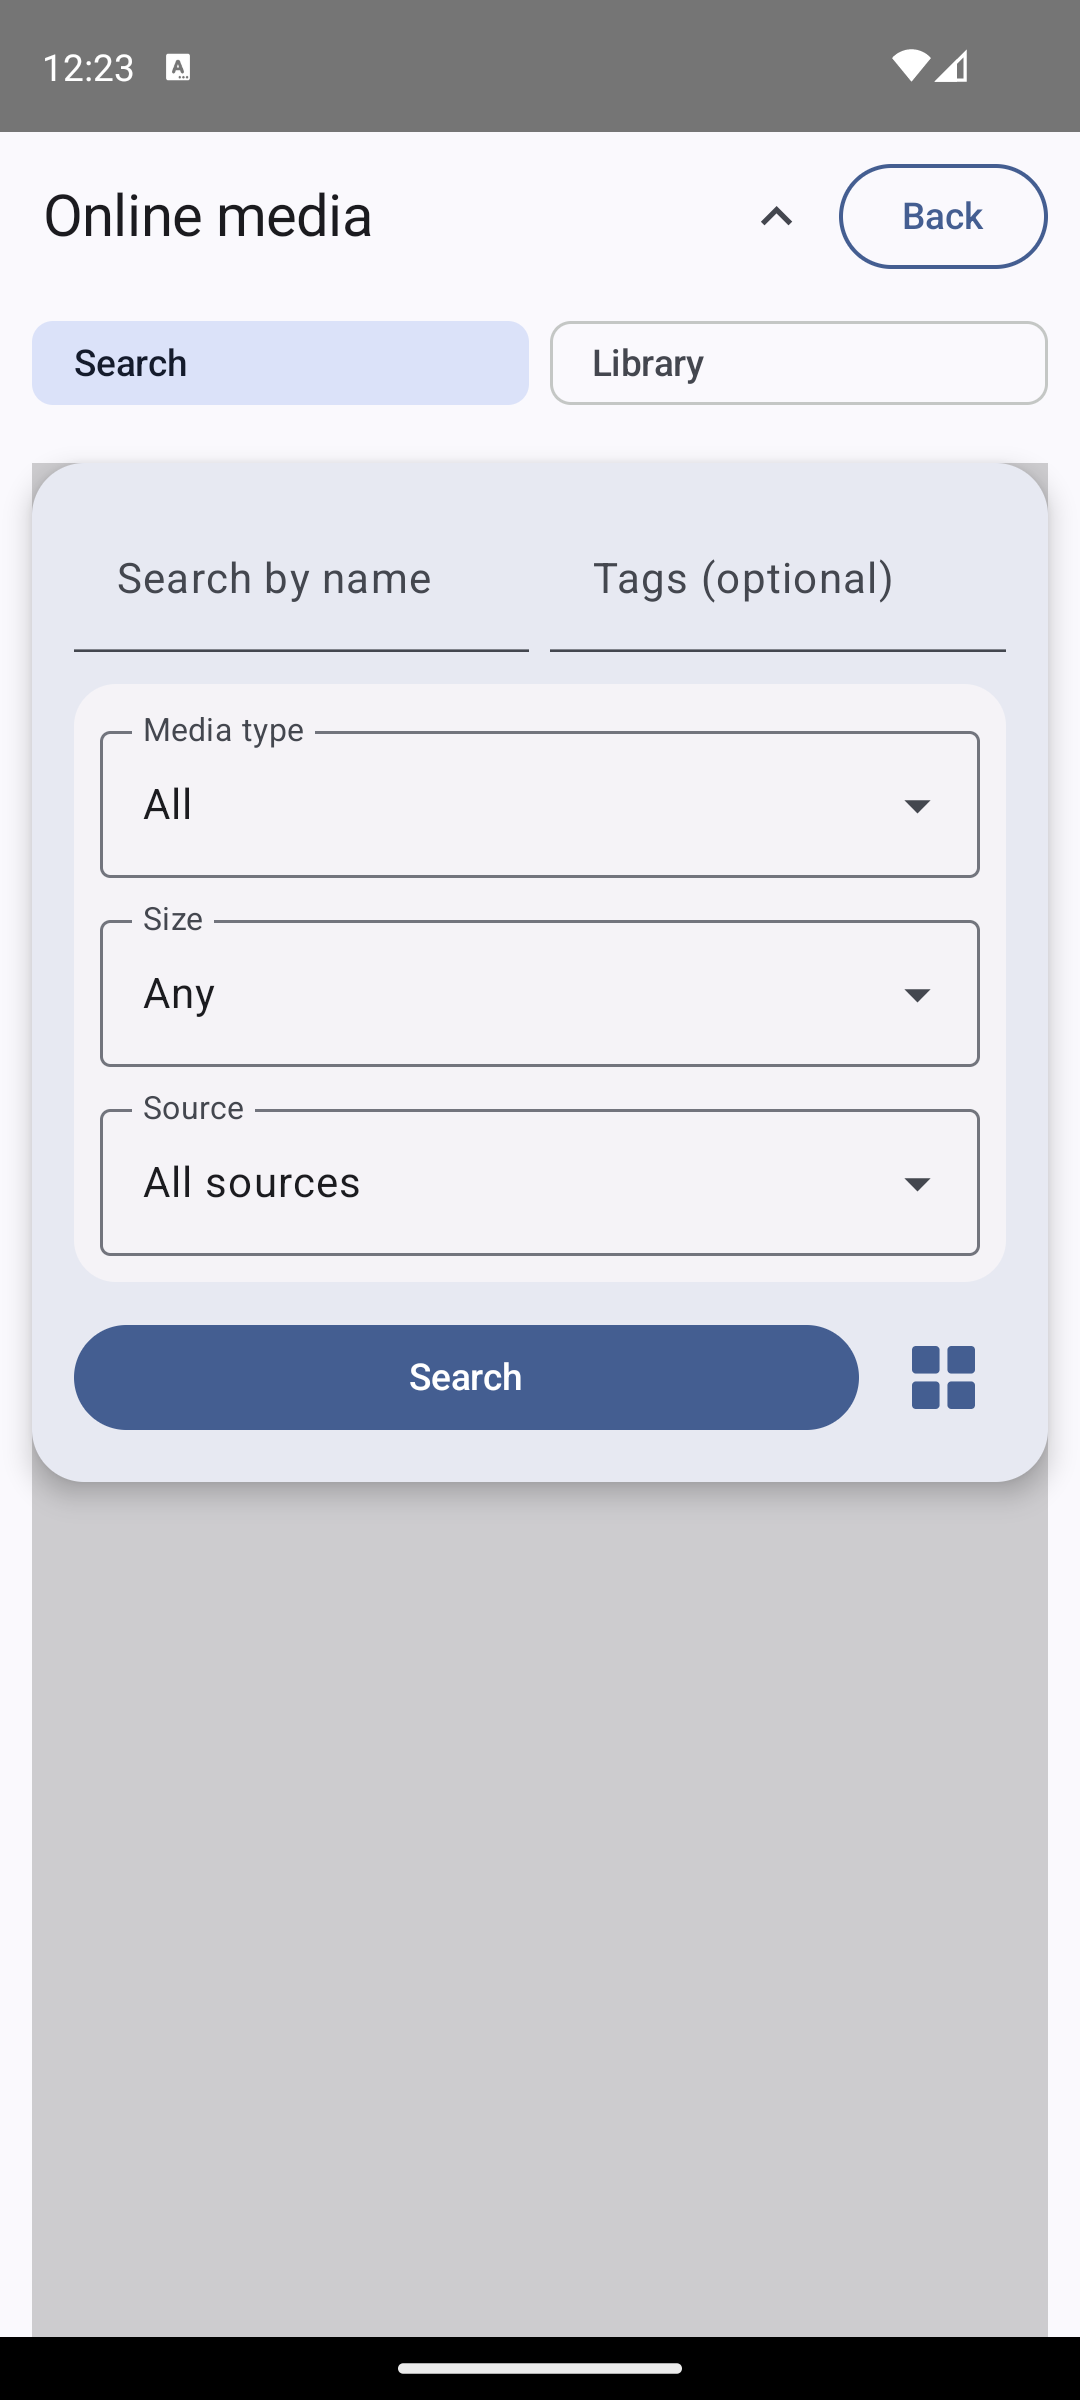
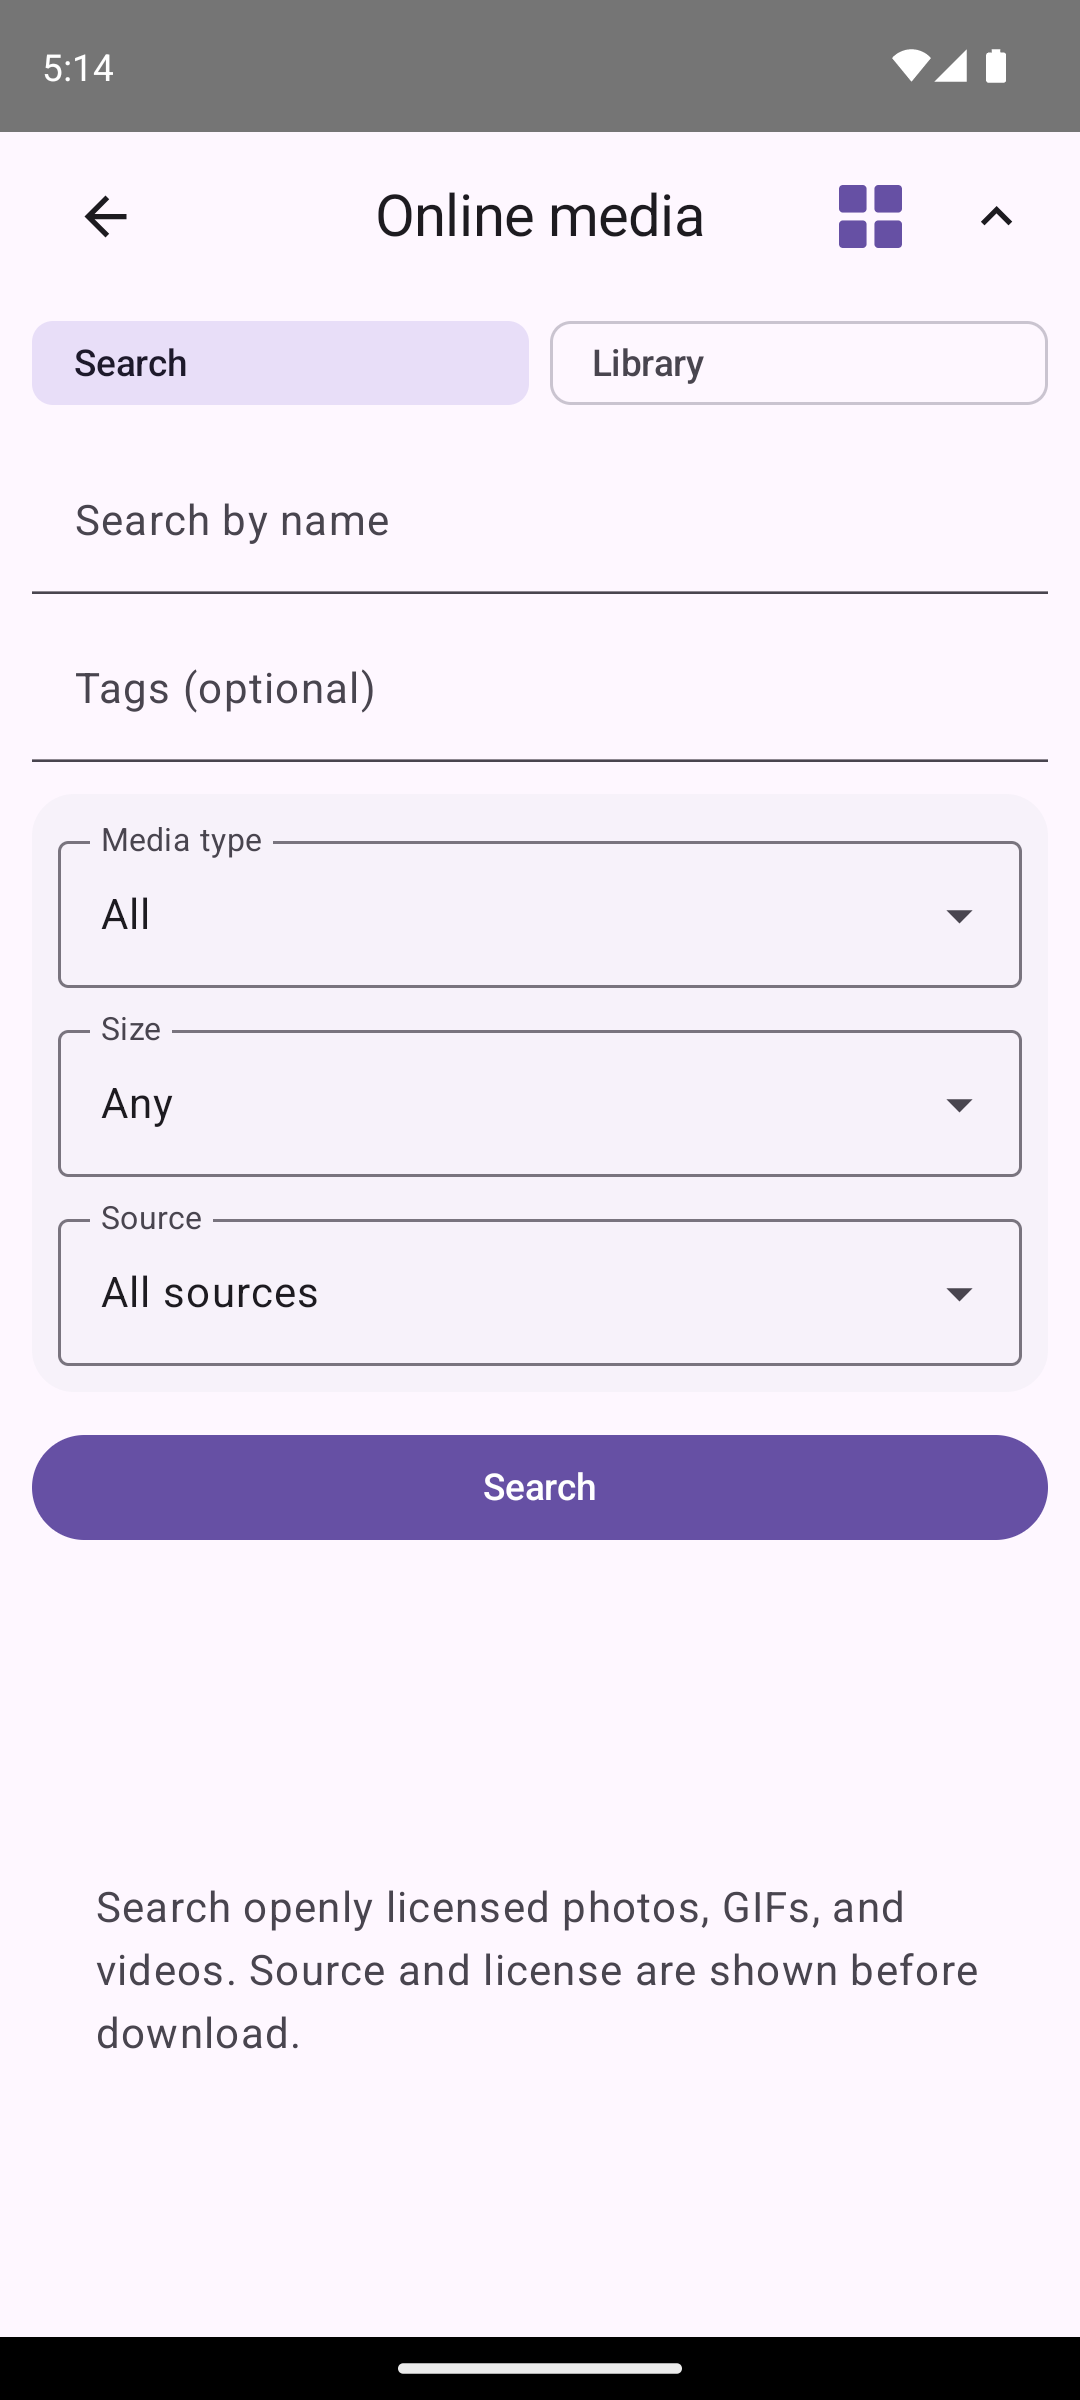
Update website for 0.6.1

diff --git a/app/page.tsx b/app/page.tsx
@@ -25,7 +25,7 @@ const copy = {
       titleA: "Обрежь лишнее.",
       titleB: "Оставь момент.",
       text: "Открой видео, фото или GIF, внеси нужные правки и сохрани результат. Всё происходит прямо на телефоне — понятно и без лишних шагов.",
-      download: "Скачать v0.6.0",
+      download: "Скачать v0.6.1",
       source: "Открыть код",
       note: "Бесплатно · Open source · без подписки",
       local: "Обработка на устройстве",
@@ -35,7 +35,7 @@ const copy = {
     intro: {
       kicker: "Всё в одном месте",
       title: "Один редактор для видео, фото и GIF.",
-      text: "Выбери файл на устройстве или найди медиа с открытой лицензией в онлайн-каталоге. Локальная медиатека показывает фактические размеры, а новый режим Telegram создаёт компактные беззвучные MP4-анимации.",
+      text: "Выбери файл на устройстве или найди медиа с открытой лицензией в онлайн-каталоге. Локальная медиатека показывает фактические размеры, а поиск и избранное теперь используют единую раскрываемую шапку.",
     },
     media: {
       video: {
@@ -64,7 +64,7 @@ const copy = {
       names: ["Главная", "Медиатека", "Онлайн-медиа", "Редактор", "Эффекты", "Экспорт", "Настройки"],
     },
     final: {
-      eyebrow: "Версия 0.6.0 · Android 10+",
+      eyebrow: "Версия 0.6.1 · Android 10+",
       title: "Медиа уже на телефоне. Редактор тоже может быть там.",
       download: "Скачать APK",
       changelog: "Что нового",
@@ -91,7 +91,7 @@ const copy = {
       titleA: "Cut the noise.",
       titleB: "Keep the moment.",
       text: "Open a video, photo, or GIF, make the changes you need, and save the result. Everything happens right on your phone, without unnecessary steps.",
-      download: "Download v0.6.0",
+      download: "Download v0.6.1",
       source: "View source",
       note: "Free · Open source · no subscription",
       local: "On-device processing",
@@ -101,7 +101,7 @@ const copy = {
     intro: {
       kicker: "Everything in one place",
       title: "One editor for video, photos, and GIFs.",
-      text: "Choose a file on your device or find openly licensed media in the online catalog. The local library shows actual dimensions, while the new Telegram target creates compact silent MP4 animations.",
+      text: "Choose a file on your device or find openly licensed media in the online catalog. The local library shows actual dimensions, while search and favorites now share one expandable header.",
     },
     media: {
       video: {
@@ -130,7 +130,7 @@ const copy = {
       names: ["Home", "Library", "Online media", "Editor", "Effects", "Export", "Settings"],
     },
     final: {
-      eyebrow: "Version 0.6.0 · Android 10+",
+      eyebrow: "Version 0.6.1 · Android 10+",
       title: "Your media lives on your phone. Your editor can too.",
       download: "Download APK",
       changelog: "What’s new",
@@ -201,8 +201,8 @@ export default function Home() {
       if (description) {
         description.content =
           locale === "ru"
-            ? "ZFree Cutter 0.6.0 — открытый Android-редактор видео, фото и GIF с интервальными эффектами, анимированным кадрированием и обработкой на устройстве."
-            : "ZFree Cutter 0.6.0 is an open-source Android editor for video, photos, and GIFs with timed effects, animated crop, and on-device processing.";
+            ? "ZFree Cutter 0.6.1 — открытый Android-редактор видео, фото и GIF с онлайн-медиа, Digital Noise Glitch и обработкой на устройстве."
+            : "ZFree Cutter 0.6.1 is an open-source Android editor for video, photos, and GIFs with online media, Digital Noise Glitch, and on-device processing.";
       }
     });
     const revealElements = Array.from(document.querySelectorAll<HTMLElement>("[data-reveal]"));
@@ -440,7 +440,7 @@ export default function Home() {
             <p className="final-note">{t.final.note}</p>
             <div className="final-links">
               <a href={`${REPOSITORY_URL}/issues`} target="_blank" rel="noreferrer">{t.final.issues}</a>
-              <a href={`${REPOSITORY_URL}/releases/tag/v0.6.0`} target="_blank" rel="noreferrer">{t.final.changelog}</a>
+              <a href={`${REPOSITORY_URL}/releases/tag/v0.6.1`} target="_blank" rel="noreferrer">{t.final.changelog}</a>
             </div>
           </div>
           <div className="final-mark" aria-hidden="true">

diff --git a/app/layout.tsx b/app/layout.tsx
@@ -18,7 +18,7 @@ export const metadata: Metadata = {
   metadataBase: new URL(siteUrl),
   title: "ZFree Cutter — media editor for Android",
   description:
-    "ZFree Cutter 0.6.0 is an open-source Android editor for video, photos, and GIFs with timed effects, animated crop, and on-device export.",
+    "ZFree Cutter 0.6.1 is an open-source Android editor for video, photos, and GIFs with online media, Digital Noise Glitch, and on-device export.",
   applicationName: "ZFree Cutter",
   authors: [{ name: "zmorok", url: "https://github.com/zmorok" }],
   keywords: ["Android", "video editor", "photo editor", "GIF editor", "open source", "Kotlin"],
@@ -37,7 +37,7 @@ export const metadata: Metadata = {
   },
   openGraph: {
     title: "ZFree Cutter — Cut the noise. Keep the moment.",
-    description: "Version 0.6.0 of the open-source media editor for Android.",
+    description: "Version 0.6.1 of the open-source media editor for Android.",
     url: siteUrl,
     siteName: "ZFree Cutter",
     locale: "en_US",
